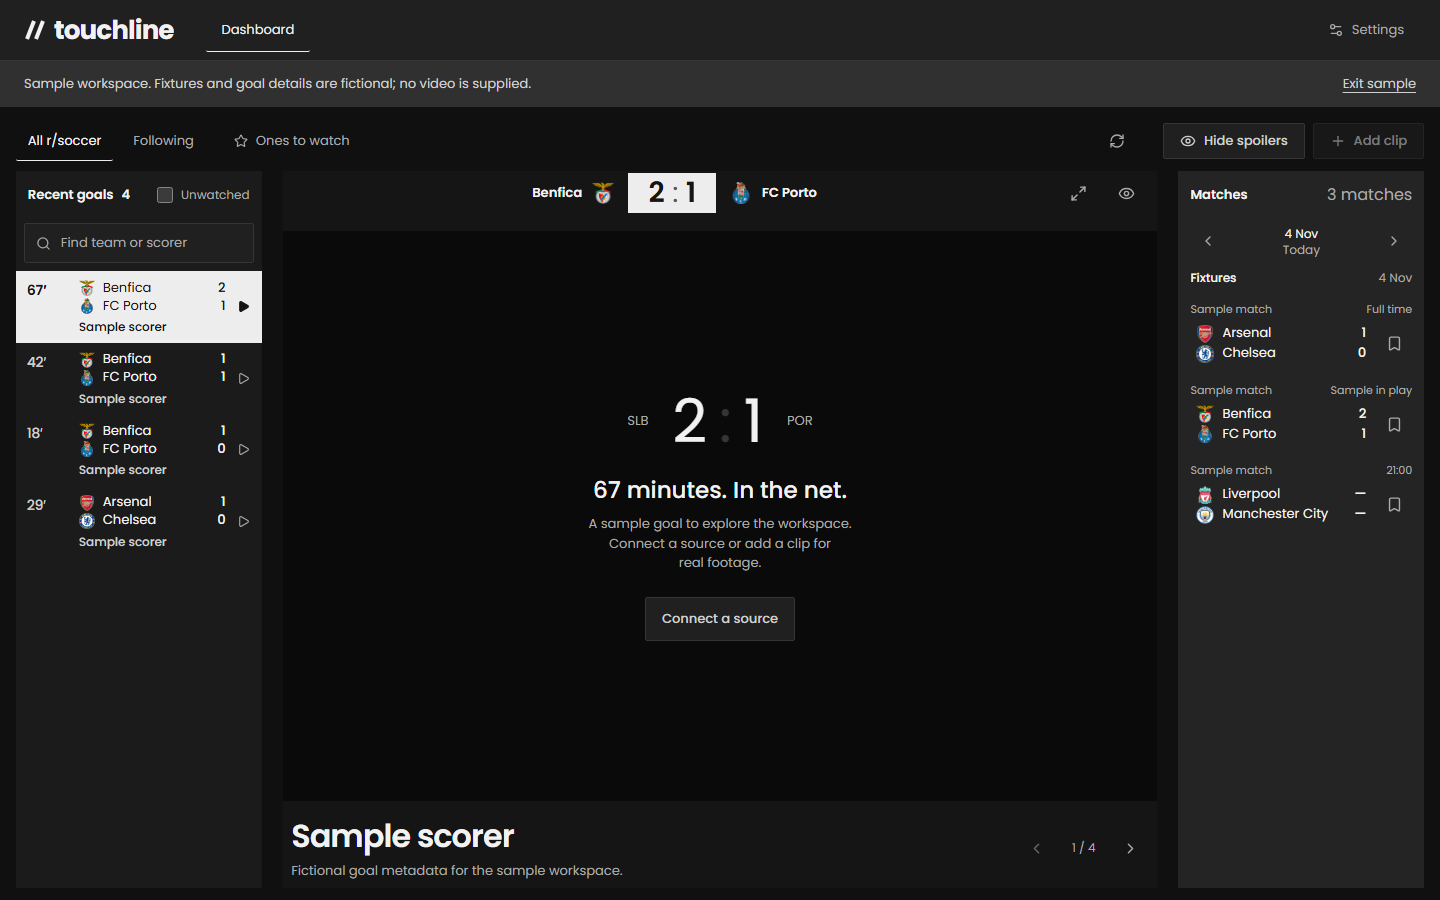
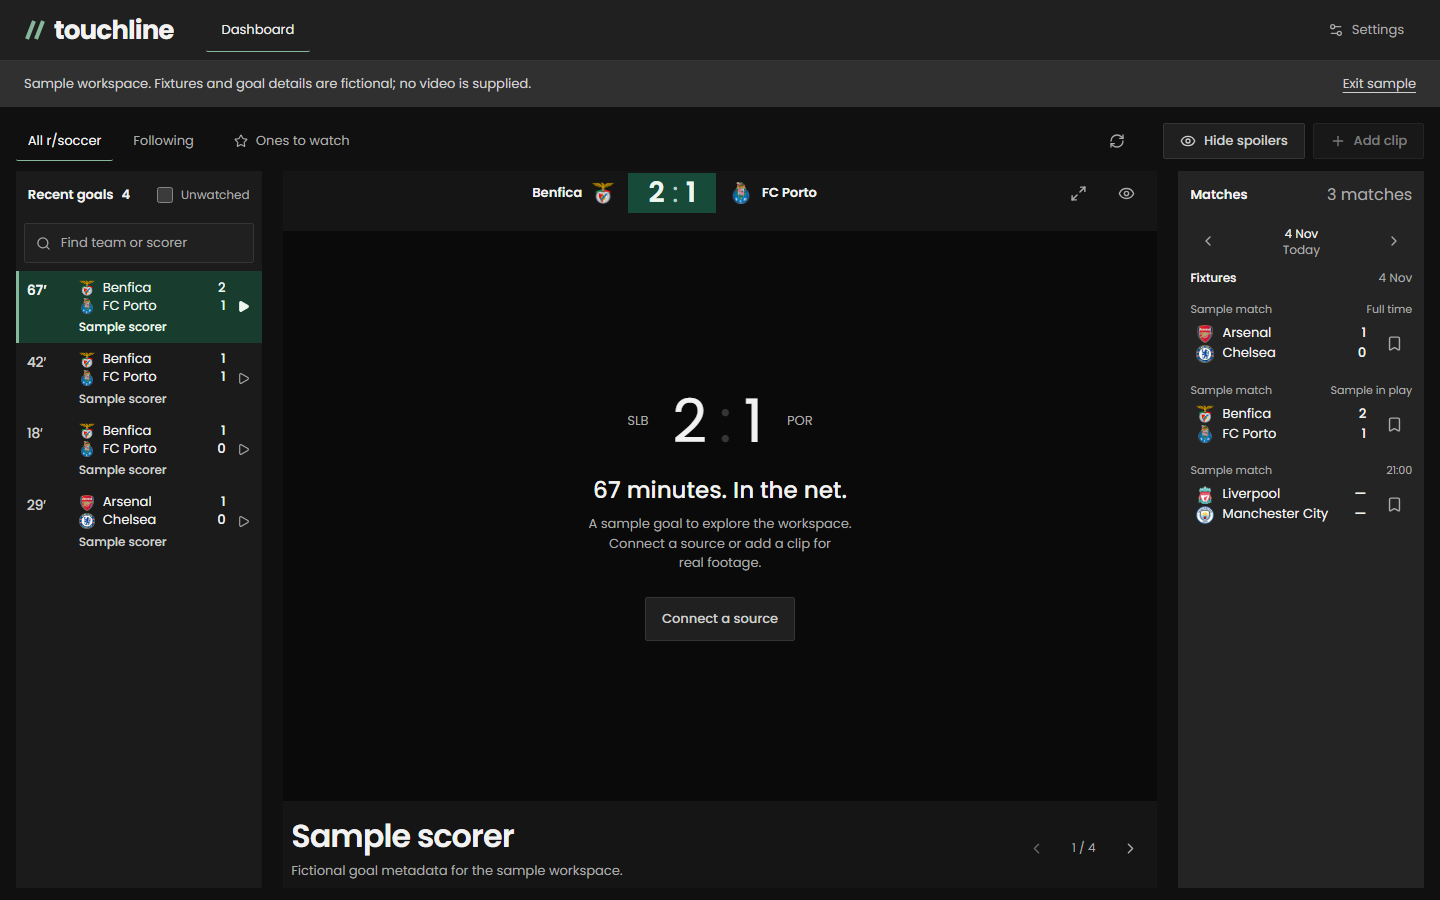
Add deep green broadcast accents to the neutral dashboard

Changed region(s): [[0.0, 0.28, 0.1875, 0.4044], [0.4375, 0.1867, 0.5, 0.2489]]

diff --git a/web/src/style.css b/web/src/style.css
@@ -5,7 +5,6 @@
 /* Hallmark · reworded "Keep watching in the meantime" to "Your clip links" · 19 and 69 replace vague filler with the actual task. */
 /* Hallmark · dismissed 28a · The lazy image is a 22px team crest, not the LCP; the goal video owns the stage and preloads its media. */
 /* Hallmark · answered F25 · The match rail is reachable through the Matches drawer on phones, and selecting a goal opens its player with Back to goals. The subtitle repeats the screen purpose. */
-/* Hallmark · dismissed 40 · The selected row explicitly sets dark text on its light background, including crest fallbacks. Both desktop and phone axe contrast checks pass; the static scan does not resolve the descendant overrides. */
 @import "./tokens.css";
 @import "./base.css";
 * {
@@ -2816,40 +2815,40 @@ summary:focus-visible {
   flex: none;
 }
 .scoreboard-result {
-  background: var(--color-accent);
-  color: var(--color-accent-ink);
+  background: var(--color-green);
+  color: var(--color-green-ink);
   min-width: 88px;
   padding: var(--space-2xs) var(--space-sm);
   font-weight: 600;
   align-self: center;
 }
 .scoreboard-result > span {
-  color: var(--color-surface-edge);
+  color: var(--color-green-muted);
 }
 .goal-row.selected {
-  background: var(--color-accent);
-  color: var(--color-accent-ink);
-  border-left-color: var(--color-accent);
+  background: var(--color-green-selected);
+  color: var(--color-green-ink);
+  border-left-color: var(--color-green-signal);
 }
 .goal-row.selected .goal-team,
 .goal-row.selected .goal-copy b,
 .goal-row.selected .goal-copy strong,
 .goal-row.selected .goal-minute,
 .goal-row.selected .queue-play {
-  color: var(--color-accent-ink);
+  color: var(--color-green-ink);
 }
 .goal-row.selected small,
 .goal-row.selected .watch-tag {
-  color: var(--color-surface-edge);
+  color: var(--color-green-muted);
 }
 .goal-row.selected .goal-minute {
   font-weight: 600;
 }
 .goal-row.selected:hover {
-  background: var(--color-focus);
+  background: var(--color-green-hover);
 }
 .goal-row.selected:focus-visible {
-  outline-color: var(--color-accent-ink);
+  outline-color: var(--color-green-ink);
 }
 .clip-details .scorer-heading {
   font-size: clamp(24px, 2.2vw, 32px);
@@ -2890,6 +2889,28 @@ summary:focus-visible {
 }
 
 .goal-row.selected .crest-fallback {
-  color: var(--color-accent-ink);
-  border-color: var(--color-surface-edge);
+  color: var(--color-green-ink);
+  border-color: var(--color-green-muted);
+}
+
+.topbar .brand-mark {
+  color: var(--color-green-signal);
+}
+.topbar nav button[aria-current="page"],
+.feed-tabs > button[aria-pressed="true"],
+.settings-navigation button[aria-current="page"] {
+  border-bottom-color: var(--color-green-signal);
+}
+.fixture.selected {
+  background: var(--color-green-selected);
+  box-shadow: inset 3px 0 0 var(--color-green-signal);
+}
+.primary {
+  background: var(--color-green);
+  border-color: var(--color-green);
+  color: var(--color-green-ink);
+}
+.primary:hover {
+  background: var(--color-green-hover);
+  color: var(--color-green-ink);
 }

diff --git a/web/src/tokens.css b/web/src/tokens.css
@@ -22,6 +22,12 @@
   --color-matches-surface: #242424;
   --color-match-selected: #3a3a3a;
   --color-match-hover: #303030;
+  --color-green: #174a39;
+  --color-green-hover: #205b46;
+  --color-green-selected: #183c2e;
+  --color-green-ink: #edf7f0;
+  --color-green-muted: #b8d3c2;
+  --color-green-signal: #86b99b;
   --font-body: "Poppins", Arial, sans-serif;
   --font-display: "Poppins", Arial, sans-serif;
   --font-mono: "Poppins", Arial, sans-serif;
